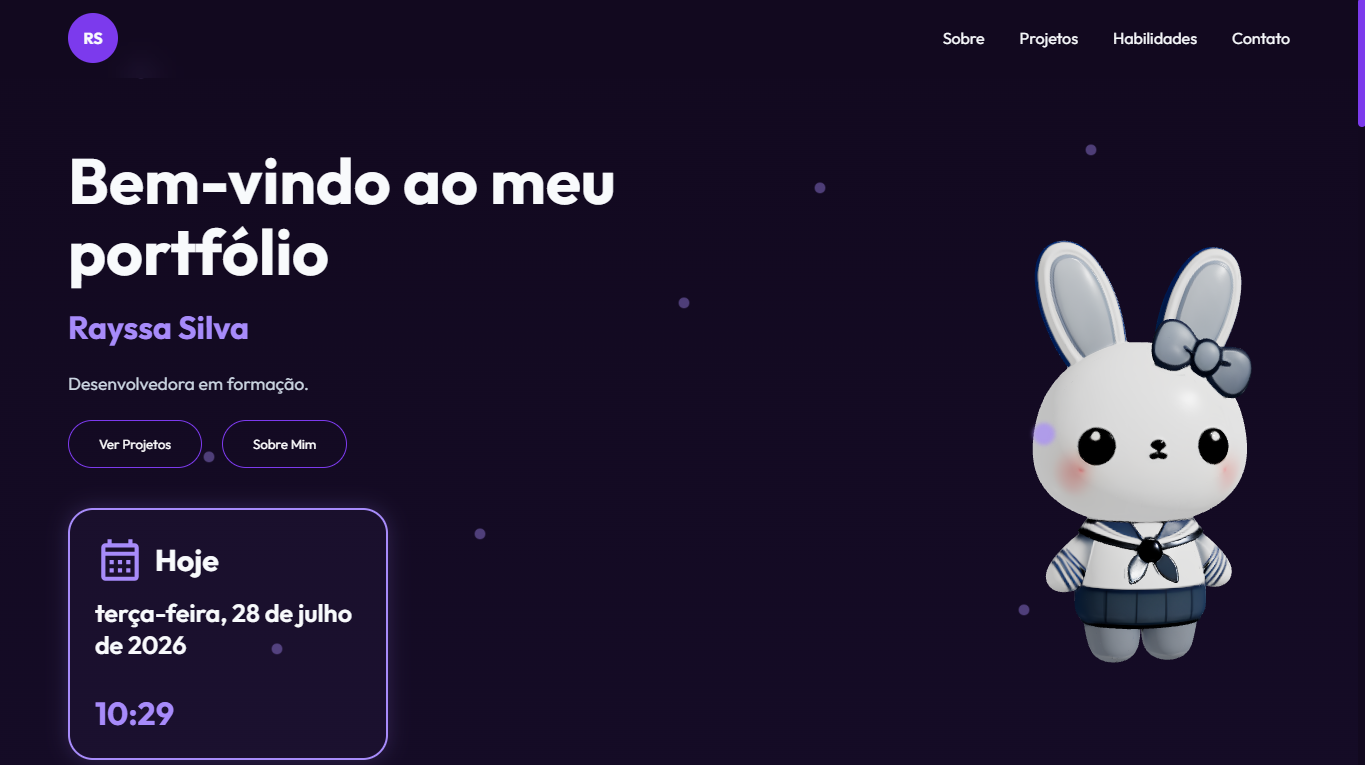
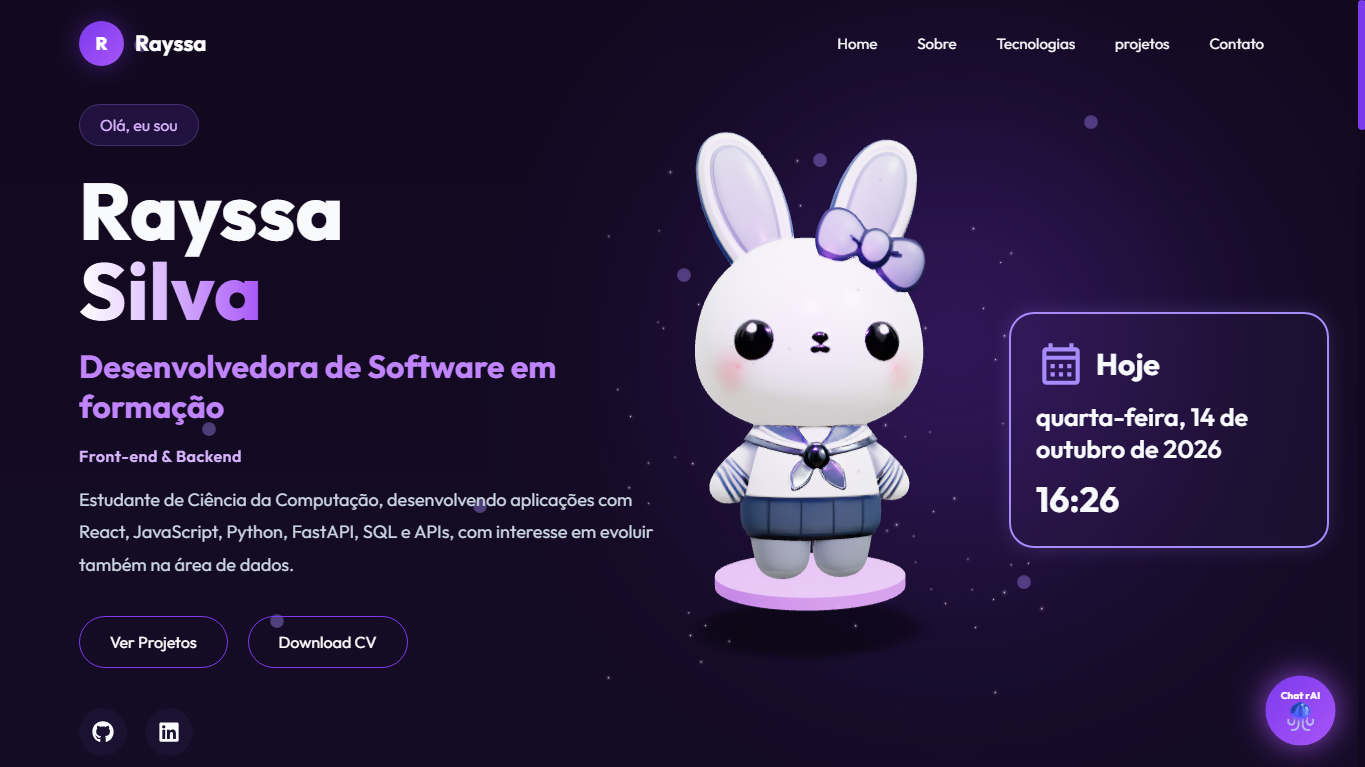
Atualizando portfolio e chat rAI

diff --git a/src/components/Projects.jsx b/src/components/Projects.jsx
@@ -3,6 +3,27 @@ import ProjectCard from "./ProjectCard";
 
 export default function Projects() {
   const projetos = [
+
+    {
+      titulo: "rAI",
+      logo: "https://img.icons8.com/?size=100&id=45060&format=png&color=000000",
+      descricao:
+      "Chatbot integrado ao portfolio para responder perguntas sobre a minha formação e é limitado as informações alimentadas, não inventa respostas",
+      tecnologias: [ 
+        "React.js",
+        "JavaScript",
+        "Python",
+        "FastAPI",
+        "Google Gemini API",
+        "Vercel",
+        "Rest API/HTTP",
+        "JSON",
+        "proteção da chave da API"
+
+      ],
+
+
+    },
     {
       titulo: "Achô",
       logo: "https://img.icons8.com/?size=100&id=64714&format=png&color=000000",
